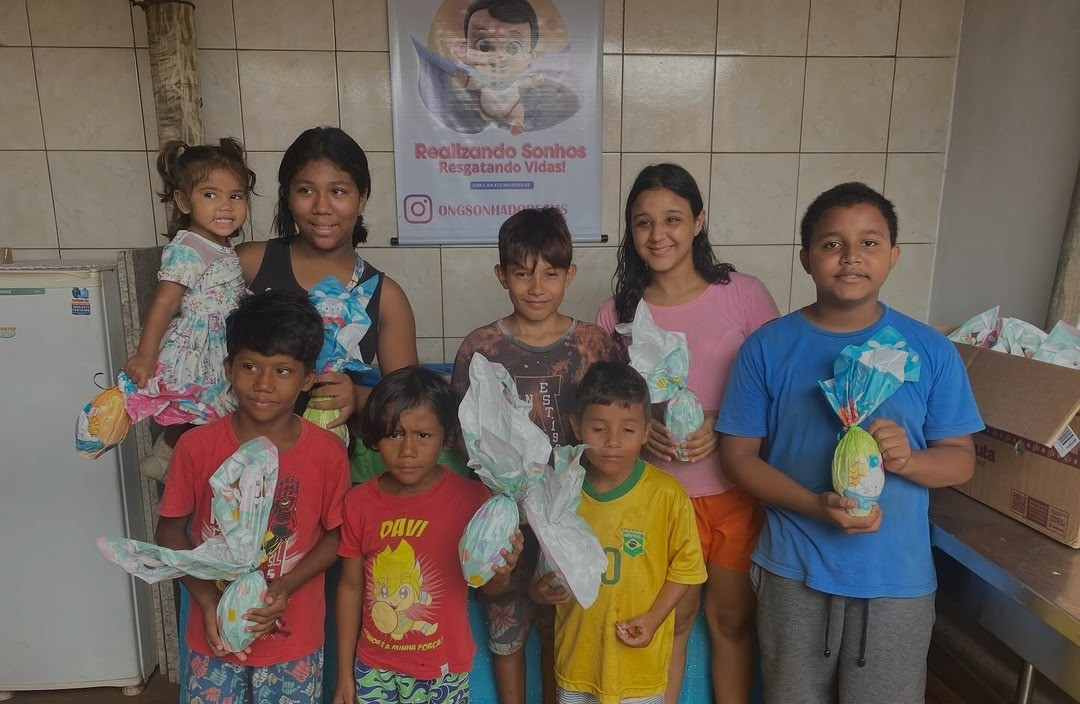
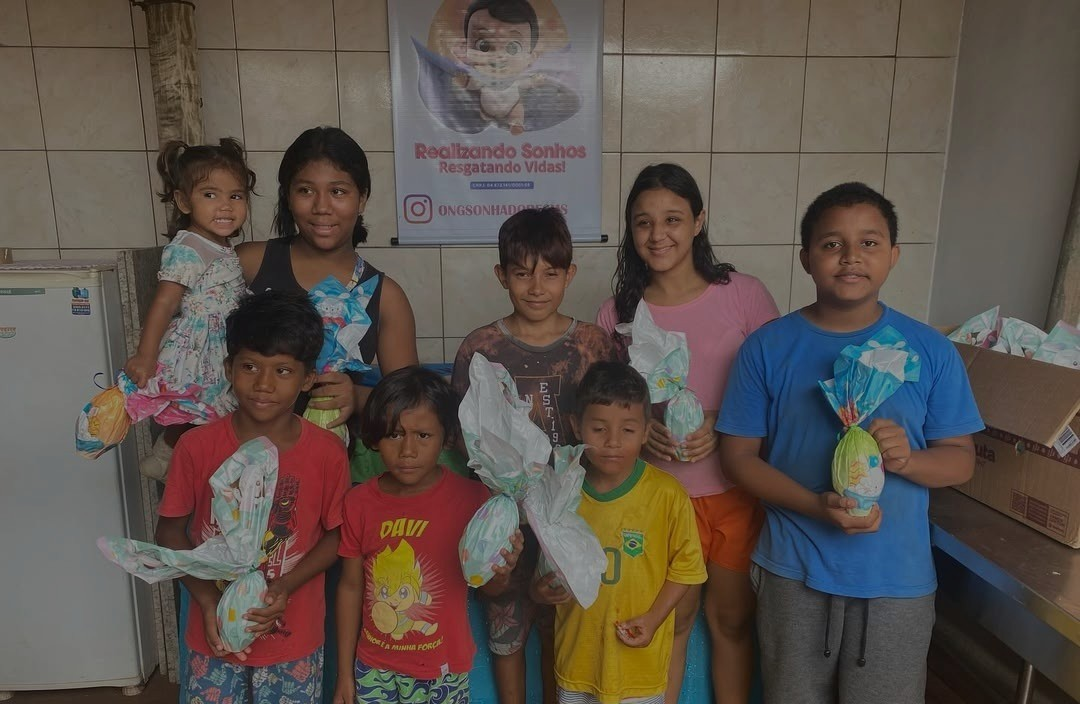
update img

diff --git a/css/header.css b/css/header.css
@@ -2,8 +2,7 @@
 
 header {
     padding: 0px 40px;
-    background-image: linear-gradient(
-    rgba(0, 0, 0, 0.28)), url('../assets/img/teste2.jpg');
+    background-image: url('../assets/img/teste2.jpg');
     background-position: top;
     background-size: cover;
     color: white;
